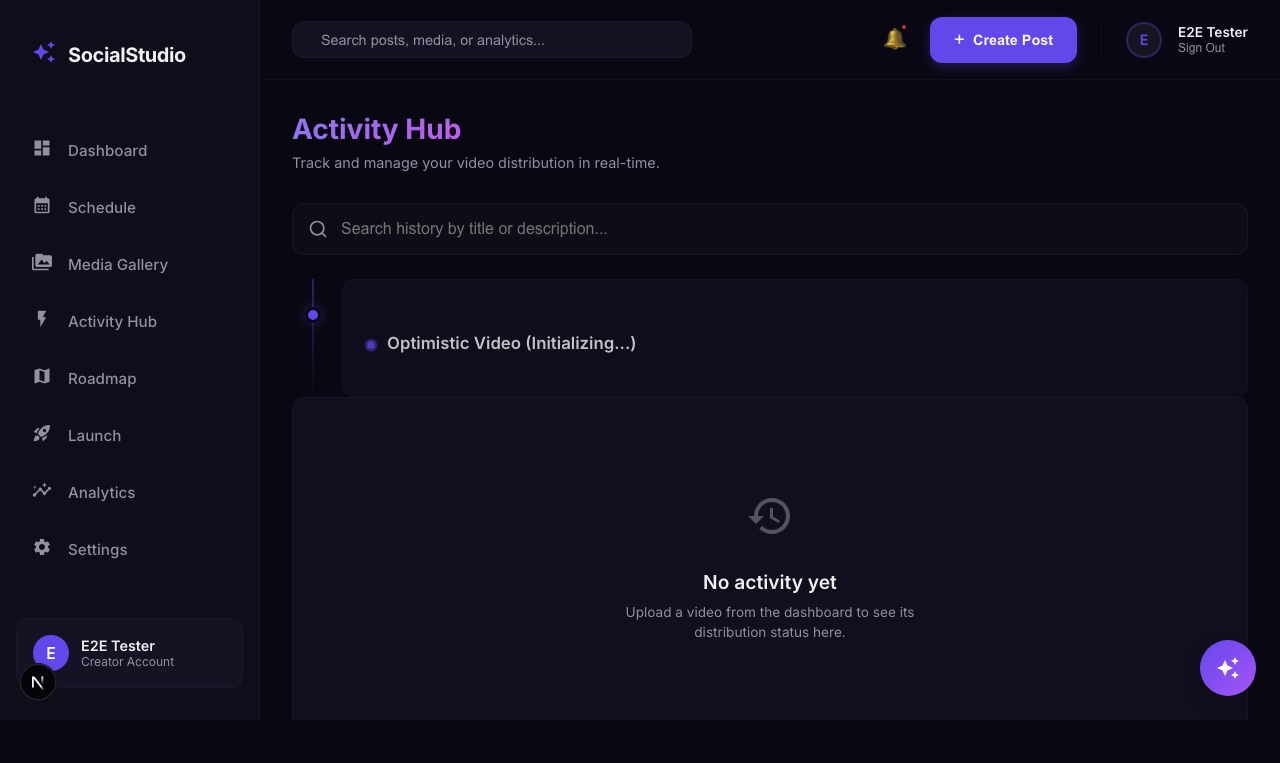
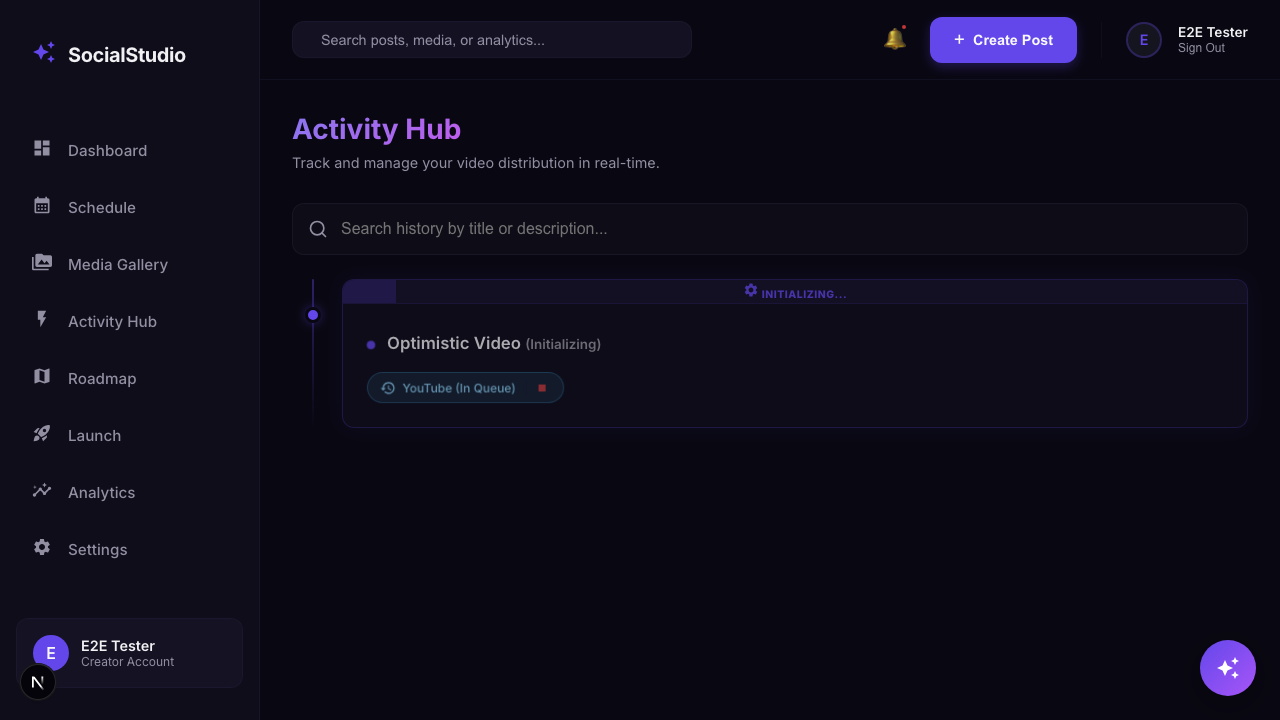
fix(history): ensure Ghost Card persists until DB record is confirmed

diff --git a/src/app/history/page.tsx b/src/app/history/page.tsx
@@ -150,6 +150,21 @@ function HistoryContent() {
     }
   }, []);
 
+  // Reconciliation: Clear pendingPost once it appears in the main list
+  useEffect(() => {
+    if (pendingPost && posts.length > 0) {
+      const match = posts.find(p => 
+        p.id === pendingPost.resumeHistoryId || 
+        p.id === pendingPost.historyId ||
+        (p.title === pendingPost.title && Math.abs(new Date(p.createdAt).getTime() - Date.now()) < 60000)
+      );
+      if (match) {
+        setPendingPost(null);
+        localStorage.removeItem('SS_PENDING_POST');
+      }
+    }
+  }, [posts, pendingPost]);
+
   useEffect(() => {
     const urlSearch = searchParams.get('search');
     if (urlSearch) {
@@ -212,10 +227,9 @@ function HistoryContent() {
       });
 
       setInPlaceStatus(" Mission Accomplished!");
-      localStorage.removeItem('SS_PENDING_POST');
+      // We no longer clear pendingPost or storage here; let the reconciliation effect handle it
       const data = await fetchHistory();
       setPosts(data.data || []);
-      setPendingPost(null);
       setTimeout(() => {
         setActiveResumingId(null);
         // Clear URL param
@@ -680,6 +694,31 @@ function HistoryContent() {
     );
   }
 
+  // Optimized Timeline: Merge pendingPost if not already in posts
+  const reconciledPosts = [...posts];
+  if (pendingPost && !posts.some(p => p.id === pendingPost.resumeHistoryId || p.id === pendingPost.historyId || (p.title === pendingPost.title && Math.abs(new Date(p.createdAt).getTime() - Date.now()) < 120000))) {
+    reconciledPosts.unshift({
+      id: pendingPost.resumeHistoryId || pendingPost.historyId || 'optimistic-pending',
+      title: pendingPost.title,
+      description: pendingPost.description || null,
+      videoFormat: pendingPost.videoFormat,
+      createdAt: new Date().toISOString(),
+      stagedFileId: pendingPost.galleryFileId || null,
+      platforms: (pendingPost.platforms || []).map((p, idx) => ({
+        id: `optimistic-p-${idx}`,
+        platform: p.platform,
+        accountName: null,
+        platformPostId: null,
+        permalink: null,
+        status: 'pending',
+        progress: 0,
+        errorMessage: null,
+        accountId: p.accountId
+      })),
+      isOptimistic: true
+    } as any);
+  }
+
   return (
     <div className={styles.historyPage}>
       <div className={styles.header}>
@@ -698,26 +737,7 @@ function HistoryContent() {
         placeholder="Search history by title or description..."
       />
 
-      {/* OPTIMISTIC POST */}
-      {pendingPost && (
-        <div className={styles.timeline}>
-          <div className={styles.postCard}>
-            <div className={styles.timelineDot} />
-            <GlassCard className={`${styles.cardInner} ${styles.activePost}`} style={{ opacity: 0.8 }}>
-              <div className={styles.cardHeader} style={{ paddingTop: '1.75rem' }}>
-                <div style={{ flex: 1 }}>
-                  <h3 className={styles.postTitle}>
-                    <span className={`${styles.processingDot} animate-pulse`} />
-                    {pendingPost.title} (Initializing...)
-                  </h3>
-                </div>
-              </div>
-            </GlassCard>
-          </div>
-        </div>
-      )}
-
-      {posts.length === 0 ? (
+      {reconciledPosts.length === 0 ? (
         <GlassCard>
           <div className={styles.emptyState}>
             <div className={styles.emptyIcon}>
@@ -731,15 +751,16 @@ function HistoryContent() {
         </GlassCard>
       ) : (
         <div className={styles.timeline}>
-          {posts.map((post) => {
+          {reconciledPosts.map((post) => {
+            const isOptimistic = (post as any).isOptimistic;
             const isActive = post.platforms.some(p => ['pending', 'uploading', 'processing', 'retrying'].includes(p.status));
             const allPending = post.platforms.every(p => p.status === 'pending');
             const isActiveStaging = stagingStatus.active && stagingStatus.historyId === post.id;
 
             return (
-              <div key={post.id} data-testid={`history-post-${post.id}`} className={`${styles.postCard} ${isActive || isActiveStaging ? styles.activePost : ''}`}>
+              <div key={post.id} data-testid={`history-post-${post.id}`} className={`${styles.postCard} ${isActive || isActiveStaging || isOptimistic ? styles.activePost : ''}`}>
                 <div className={styles.timelineDot} />
-                <GlassCard className={styles.cardInner} style={{ position: 'relative', overflow: 'hidden' }}>
+                <GlassCard className={styles.cardInner} style={{ position: 'relative', overflow: 'hidden', opacity: isOptimistic ? 0.7 : 1 }}>
                   {/* LIVE STAGING PROGRESS */}
                   {isActiveStaging && (
                     <div className={styles.globalPrepBar} data-testid="preparation-bar">
@@ -755,62 +776,64 @@ function HistoryContent() {
                   )}
 
                   {/* GLOBAL PREPARATION BAR (Fallback) */}
-                  {!isActiveStaging && allPending && isActive && (
-                    <div className={styles.globalPrepBar}>
+                  {!isActiveStaging && allPending && (isActive || isOptimistic) && (
+                    <div className={styles.globalPrepBar} data-testid={isOptimistic ? "ghost-card-bar" : undefined}>
                       <div className={styles.globalPrepProgress} />
                       <span className={styles.globalPrepText}>
-                        <SettingsIcon className="animate-spin" sx={{ fontSize: 16 }} /> Preparing for distribution...
+                        <SettingsIcon className="animate-spin" sx={{ fontSize: 16 }} /> {isOptimistic ? 'Initializing...' : 'Preparing for distribution...'}
                       </span>
                     </div>
                   )}
 
-                  <div className={styles.cardHeader} style={(allPending && isActive) || isActiveStaging ? { paddingTop: '1.75rem' } : {}}>
+                  <div className={styles.cardHeader} style={(allPending && (isActive || isOptimistic)) || isActiveStaging ? { paddingTop: '1.75rem' } : {}}>
                     <div style={{ flex: 1, minWidth: 0 }}>
                       <h3 className={styles.postTitle}>
-                        {(isActive || isActiveStaging) && <span className={styles.processingDot} />}
-                        {post.title}
+                        {(isActive || isActiveStaging || isOptimistic) && <span className={styles.processingDot} />}
+                        {post.title} {isOptimistic && <span style={{ opacity: 0.6, fontSize: '0.8em' }}>(Initializing)</span>}
                       </h3>
                       {post.description && (
                         <p className={styles.postDescription}>{post.description}</p>
                       )}
                     </div>
-                    <div className={styles.metaBadges}>
-                      <span className={`${styles.formatBadge} ${post.videoFormat === 'short' ? styles.formatShort : styles.formatLong}`}>
-                        {post.videoFormat === 'short' ? ' Short' : ' Long'}
-                      </span>
-                      <span className={styles.timestamp}>
-                        {formatRelativeDate(post.createdAt)}
-                      </span>
-                      
-                      {(isActive || isActiveStaging) && (
-                        <button 
-                          className={styles.stopAllButton}
-                          onClick={(e) => handleCancelAll(e, post.id)}
-                          title="Stop All active distributions for this post"
-                        >
-                          <StopIcon sx={{ fontSize: 16 }} /> STOP ALL
-                        </button>
-                      )}
+                    {!isOptimistic && (
+                      <div className={styles.metaBadges}>
+                        <span className={`${styles.formatBadge} ${post.videoFormat === 'short' ? styles.formatShort : styles.formatLong}`}>
+                          {post.videoFormat === 'short' ? ' Short' : ' Long'}
+                        </span>
+                        <span className={styles.timestamp}>
+                          {formatRelativeDate(post.createdAt)}
+                        </span>
+                        
+                        {(isActive || isActiveStaging) && (
+                          <button 
+                            className={styles.stopAllButton}
+                            onClick={(e) => handleCancelAll(e, post.id)}
+                            title="Stop All active distributions for this post"
+                          >
+                            <StopIcon sx={{ fontSize: 16 }} /> STOP ALL
+                          </button>
+                        )}
 
-                      {(() => {
-                        const postCreatedAt = new Date(post.createdAt).getTime();
-                        const isPostStale = post.platforms.some(p => p.status === 'pending') && (Date.now() - postCreatedAt > 60 * 1000) && !post.stagedFileId;
-                        if (isPostStale && !isActiveStaging) {
-                          return (
-                            <button 
-                              className={styles.resumeButton}
-                              onClick={() => handleInPlaceResume(post)}
-                              disabled={activeResumingId === post.id}
-                              style={{ marginLeft: '1rem', display: 'flex', alignItems: 'center', gap: '4px' }}
-                            >
-                              {activeResumingId === post.id ? <HistoryIcon className="animate-pulse" sx={{ fontSize: 16 }} /> : <RocketLaunchIcon sx={{ fontSize: 16 }} />}
-                              {activeResumingId === post.id ? 'Processing' : 'Manual Resume'}
-                            </button>
-                          );
-                        }
-                        return null;
-                      })()}
-                    </div>
+                        {(() => {
+                          const postCreatedAt = new Date(post.createdAt).getTime();
+                          const isPostStale = post.platforms.some(p => p.status === 'pending') && (Date.now() - postCreatedAt > 60 * 1000) && !post.stagedFileId;
+                          if (isPostStale && !isActiveStaging) {
+                            return (
+                              <button 
+                                className={styles.resumeButton}
+                                onClick={() => handleInPlaceResume(post)}
+                                disabled={activeResumingId === post.id}
+                                style={{ marginLeft: '1rem', display: 'flex', alignItems: 'center', gap: '4px' }}
+                              >
+                                {activeResumingId === post.id ? <HistoryIcon className="animate-pulse" sx={{ fontSize: 16 }} /> : <RocketLaunchIcon sx={{ fontSize: 16 }} />}
+                                {activeResumingId === post.id ? 'Processing' : 'Manual Resume'}
+                              </button>
+                            );
+                          }
+                          return null;
+                        })()}
+                      </div>
+                    )}
                   </div>
 
                   <div className={styles.platformRow}>

diff --git a/src/__tests__/e2e/upload-visibility.spec.ts b/src/__tests__/e2e/upload-visibility.spec.ts
@@ -117,8 +117,47 @@ test.describe('Activity Hub: Upload Preparation Bar', () => {
     await page.reload();
 
     // 4. Verify optimistic card
-    const ghostCard = page.getByText('Optimistic Video (Initializing...)');
+    const ghostCard = page.getByText(/Optimistic Video/i);
     await expect(ghostCard).toBeVisible();
+    await expect(page.getByText(/Initializing/i).first()).toBeVisible();
+    
     await page.screenshot({ path: 'verification/optimistic-ghost-card.png', fullPage: true });
+  });
+
+  test('Optimistic UI: Ghost card persists after fetch without record', async ({ page }) => {
+    // 1. Initial empty mock
+    let callCount = 0;
+    await page.route('**/api/history*', async (route) => {
+      callCount++;
+      await route.fulfill({
+        status: 200,
+        contentType: 'application/json',
+        body: JSON.stringify({ data: [] }) // Still empty
+      });
+    });
+
+    await page.goto('/history');
+
+    // 2. Inject pending post
+    await page.evaluate(() => {
+      localStorage.setItem('SS_PENDING_POST', JSON.stringify({
+        title: 'Persistent Ghost',
+        videoFormat: 'short',
+        platforms: [{ platform: 'youtube', accountId: '1' }]
+      }));
+    });
+
+    await page.reload();
+
+    // 3. Verify it's there
+    await expect(page.getByText('Persistent Ghost')).toBeVisible();
+
+    // 4. Wait for a poll (should be 15s since no active posts, but we can trigger it or wait)
+    // Actually, we mocked the route to return empty. 
+    // Even if it polls, it should stay visible.
+    
+    // We can simulate another load or just wait.
+    // The previous bug was that it disappeared after the FIRST fetch.
+    await expect(page.getByText('Persistent Ghost')).toBeVisible();
   });
 });
